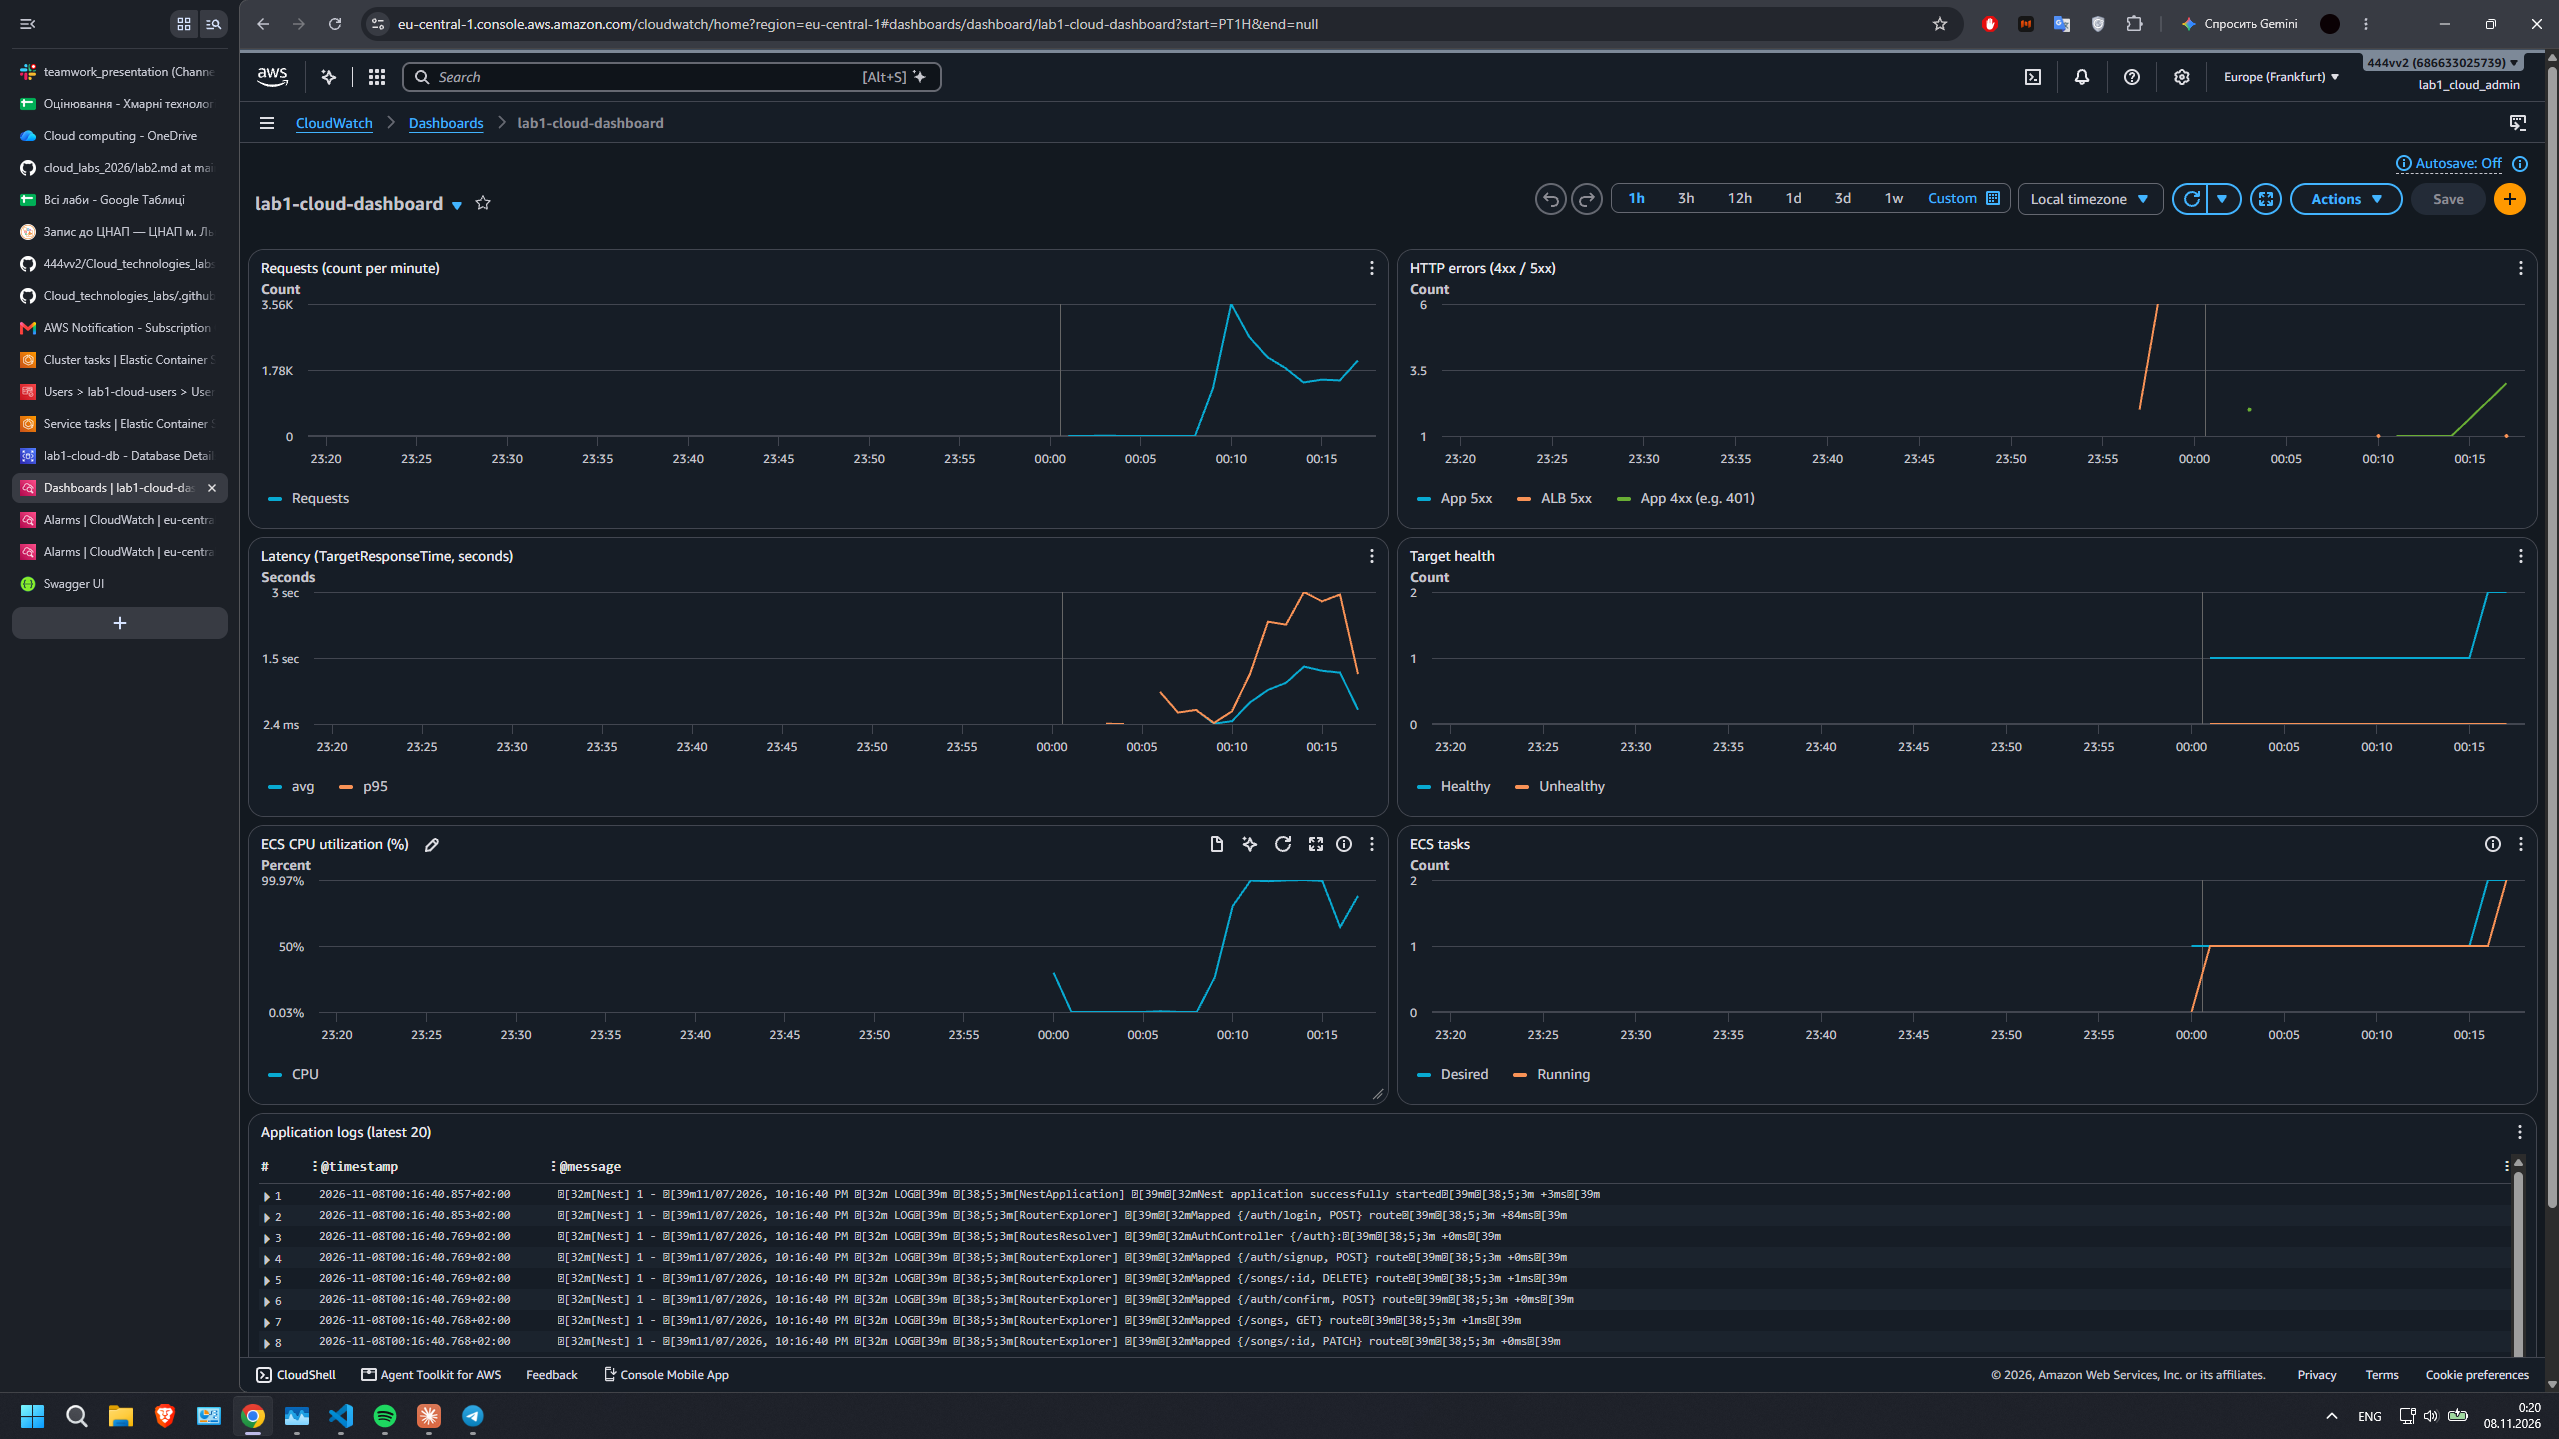
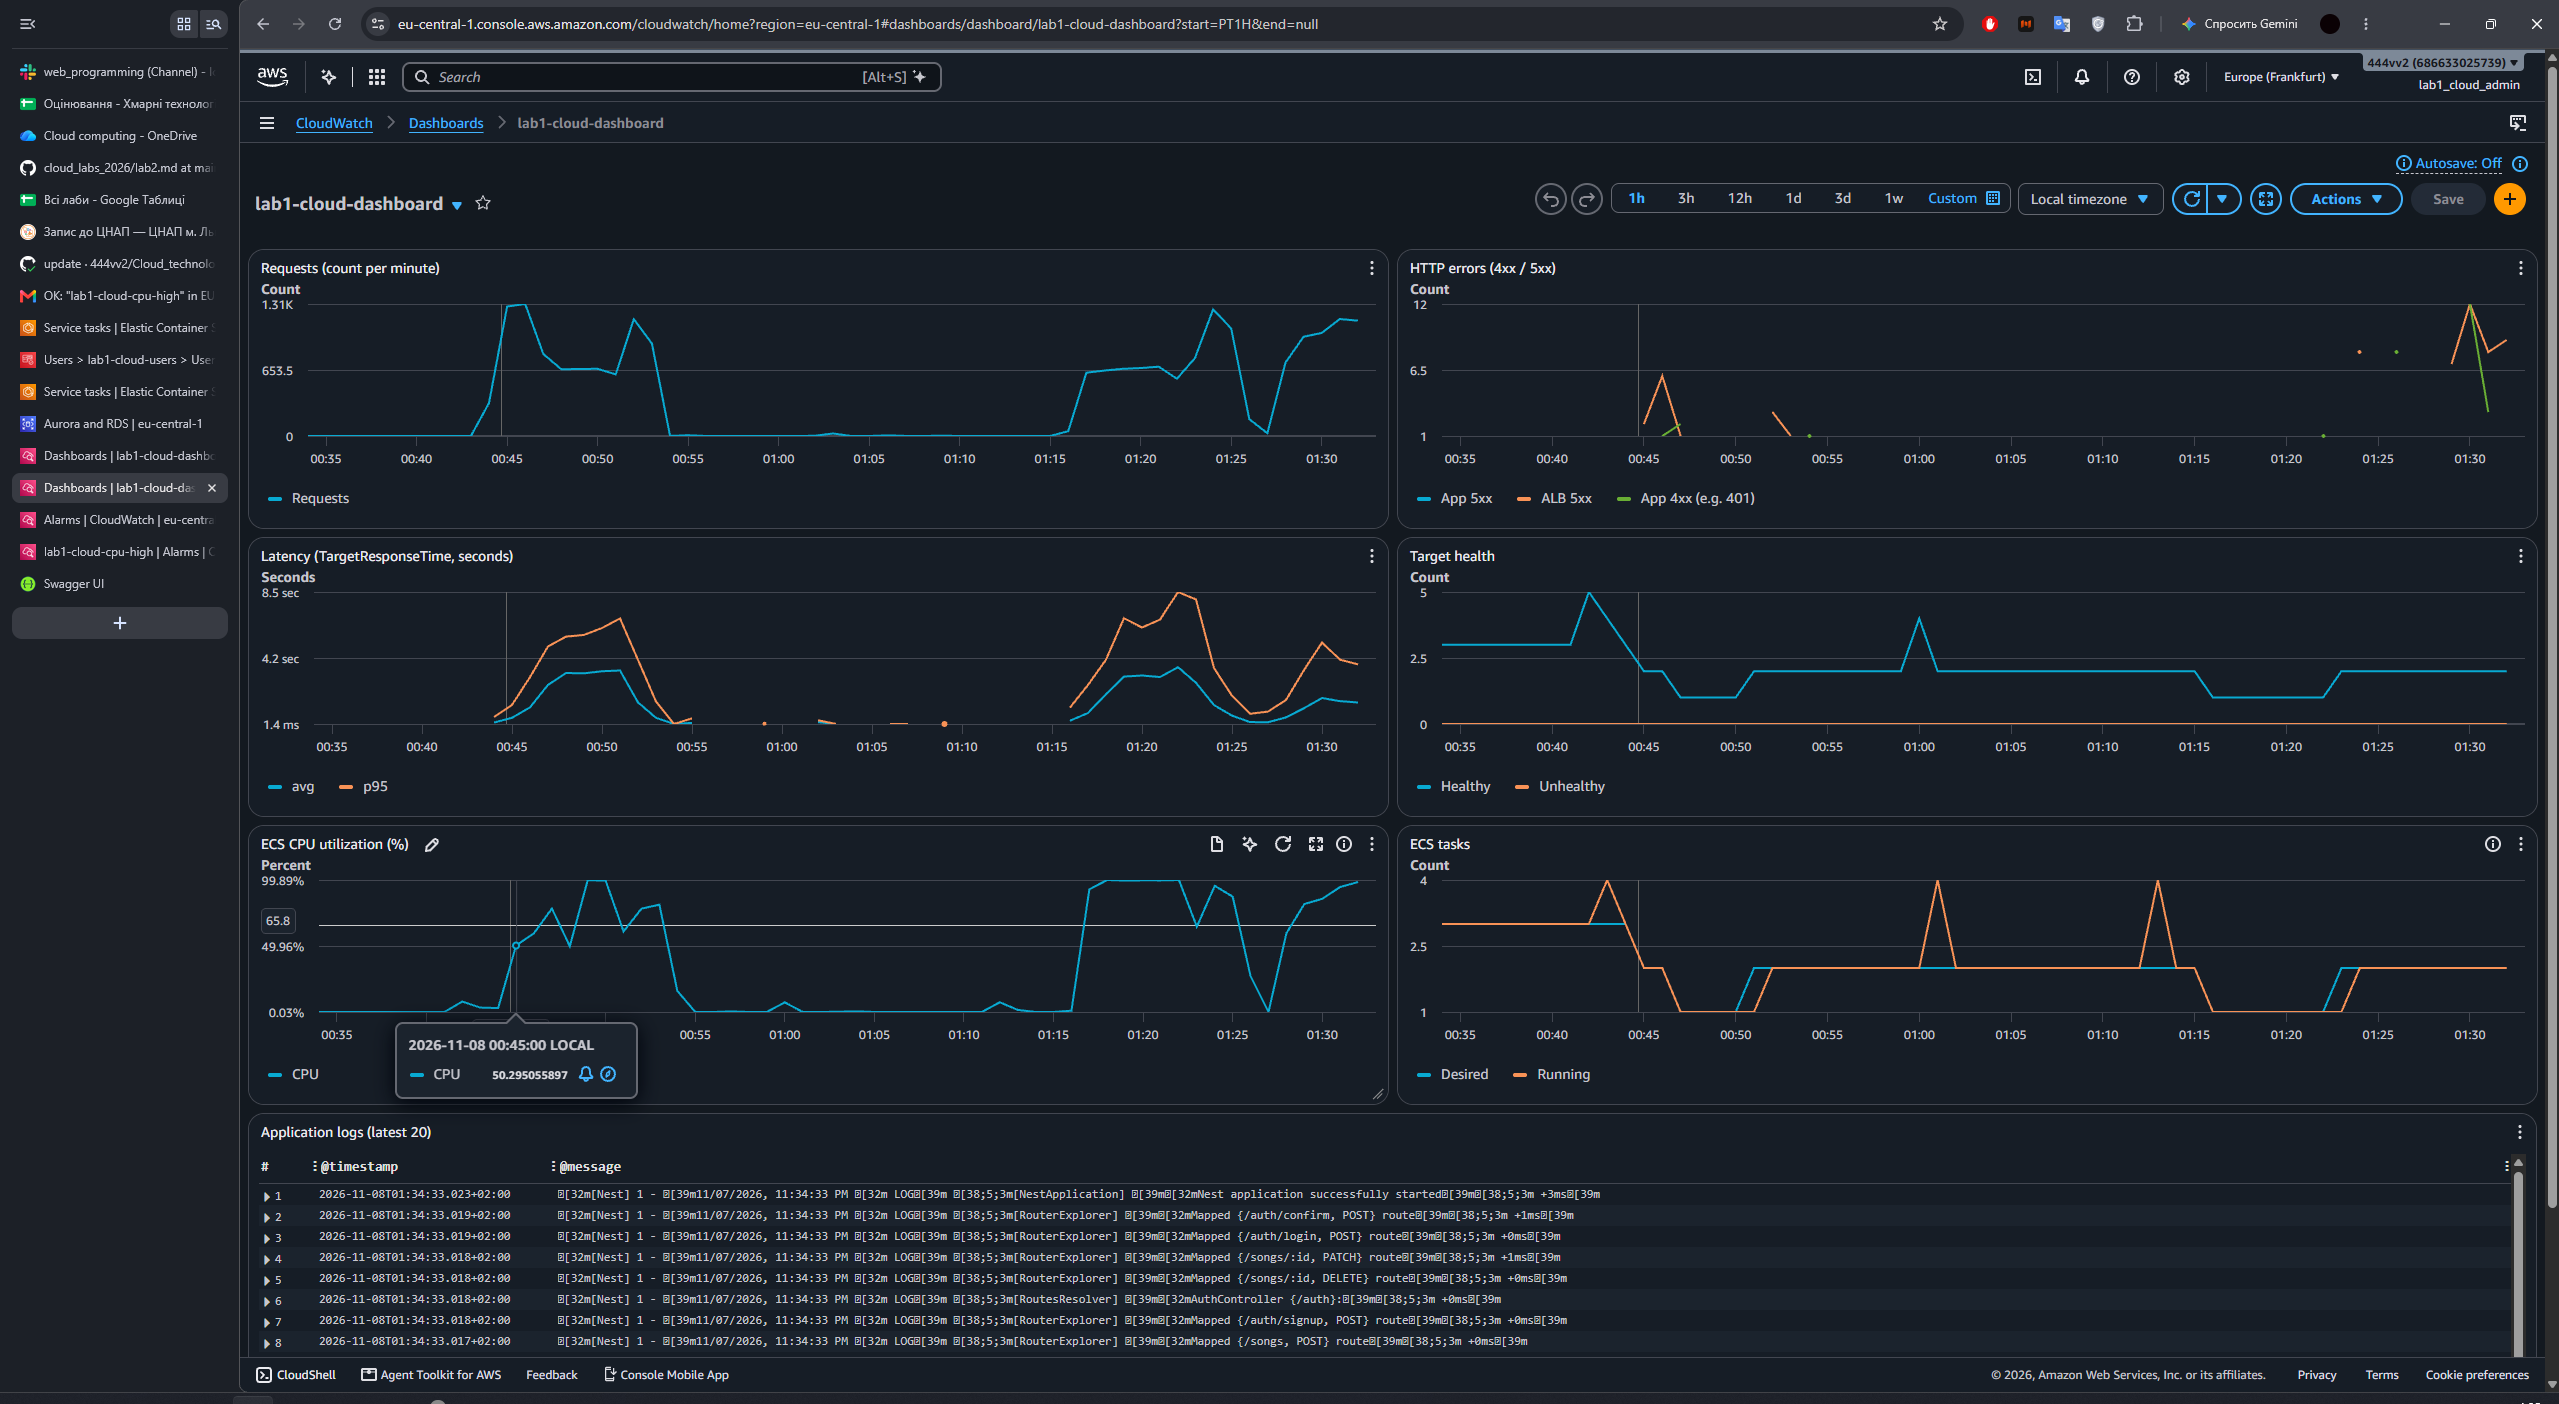
update

diff --git a/app/src/debug.controller.ts b/app/src/debug.controller.ts
@@ -4,7 +4,7 @@ import { CacheService } from './cache/cache.service';
 import { ApiTags, ApiOperation, ApiResponse } from '@nestjs/swagger';
 
 @Public()
-@ApiTags('Debug1')
+@ApiTags('Debug211')
 @Controller('debug')
 export class DebugController {
   constructor(private readonly cache: CacheService) {}

diff --git a/docs/AUTOSCALING.md b/docs/AUTOSCALING.md
@@ -6,15 +6,6 @@
 | ------------------ | --------------------------------- |
 | min / max          | 1 / 3                             |
 | Метрика            | `ECSServiceAverageCPUUtilization` |
-| Ціль               | 60%                               |
+| Ціль               | 50%                               |
 | scale_out_cooldown | 60 с                              | 
 | scale_in_cooldown  | 300 с                             |
-
-## Cooldown
-
-Період стабілізації — мінімальний час між двома діями масштабування в одному напрямку. Нові екземпляри ще стартують і не впливають на метрику; без паузи політика бачила б «все ще високий CPU» і додавала б зайве.
-При cooldown = 0 система «смикається» (flapping): додає й одразу видаляє екземпляри, а видалення під навантаженням обриває запити й викликає нове зростання CPU.
-
-## Чому зменшення повільне
-
-AWS створює алярм зменшення, який вимагає 15 хвилин поспіль CPU нижче ~54% (90% від цілі), потім діє ще scale_in_cooldown 5 хв. Разом ≈ 20 хв після спаду.

diff --git a/docs/ALERTS.md b/docs/ALERTS.md
@@ -10,8 +10,6 @@
 | `target-5xx`      | `AWS/ApplicationELB` `HTTPCode_Target_5XX_Count` (Sum) | ≥ 1 за 60 с                   | додаток відповів хоча б одним кодом 5xx, наприклад через `GET /debug/error` або збій БД | за хвилину без 5xx     |
 | `unhealthy-hosts` | `AWS/ApplicationELB` `UnHealthyHostCount` (Maximum)    | ≥ 1, 3 з 3 періодів по 60 с   | health check падає три хвилини поспіль                                                  | усі екземпляри здорові |
 
-## Алерт навантаження (завдання 4)
+## Алерт навантаження
 
 **Умова:** CPU сервісу > 70% протягом 2 хвилин. Під час тесту приходить лист про тривогу, а після спаду навантаження лист про норму.
-
-**Побічні листи під час тесту:** якщо навантаження спричинить 5xx (наприклад, нові екземпляри ще не готові), прийдуть також листи від `target-5xx`.

diff --git a/docs/CACHE.md b/docs/CACHE.md
@@ -4,12 +4,17 @@ ElastiCache `cache.t4g.micro` (`infra/redis.tf`), доступ лише з secur
 
 ## Результати
 
-|                     | Без кешу | З кешем |
-| ------------------- | -------- | ------- |
-| p95                 | 5,11 с   | 2,3 с   |
-| запитів/с           | 14,7     | 32,3    |
-| CPU RDS / з'єднання | TODO     | TODO    |
-| частка влучань      | —        | TODO    |
+|                     | Без кешу   | З кешем     |
+| ------------------- | ---------- | ----------- |
+| p95                 | 5,11s         | 2.3s        |
+| запитів/с           | 1.467417/s | 32.340216/s |
+| avg                 | 1.83s      | 678.93ms    |
+| min                 | 17.59ms    | 17.77ms     |
+| med                 | 1.38s      | 405.87ms    |
+| max                 | 13.39s     | 4.68s       |
+| p90                 | 4.15s      | 1.8s        |
+| CPU RDS / з'єднання | TODO       | TODO        |
+| частка влучань      | —          | TODO        |
 
 ## Застарілі дані
 
